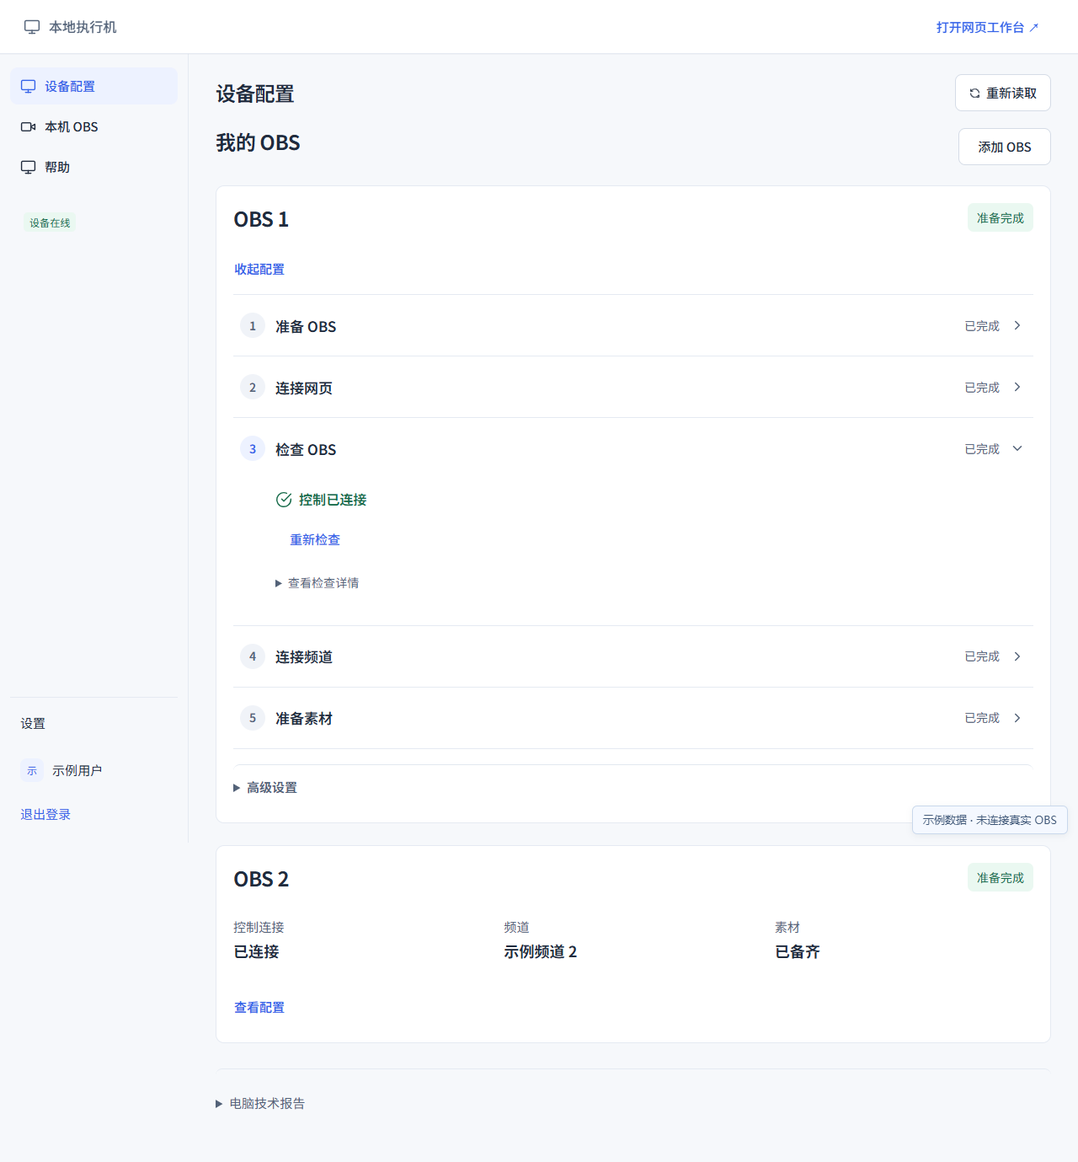
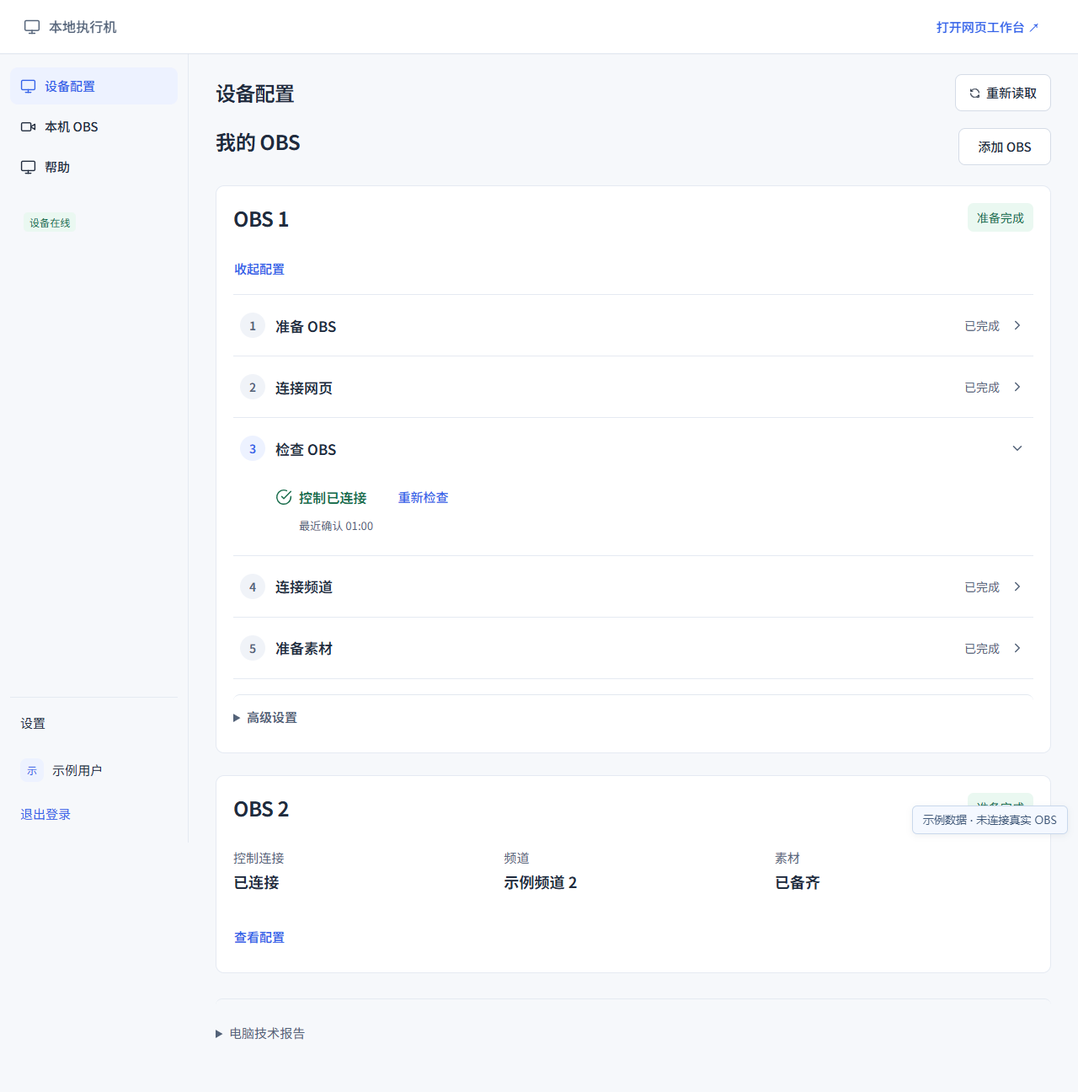
ui(desktop-obs)：将连接结果与复查操作收为紧凑摘要

diff --git a/desktop/app/obs-instance-controls.tsx b/desktop/app/obs-instance-controls.tsx
@@ -6,7 +6,7 @@ import { CheckCircleIcon, AlertCircleIcon } from "../../src/app/components/icons
 import { obsStartupView } from "./obs-startup-state";
 import styles from "./obs-startup.module.css";
 
-/** 按不可变实例 ID 发起操作；跨页面共享检查状态，操作完成不等同于控制连接成功。 */
+/** 按不可变实例 ID 发起操作；正常连接用紧凑摘要，启动历史与异常保留详情，检查完成不等同于连接成功。 */
 export default function ObsInstanceControls({ instance, check, snapshot, activity, diagnosis, disabled, act, help, now, readFresh, refresh }: {
   instance: PublicInstance; check?: Check; snapshot?: AgentSnapshot; activity?: DesktopActivity; diagnosis?: DesktopActivity; disabled: boolean;
   now: number; readFresh: boolean; refresh: () => void;
@@ -21,11 +21,21 @@ export default function ObsInstanceControls({ instance, check, snapshot, activit
   const diagnosisEndedAt = diagnosis?.endedAt || diagnosis?.problem?.observedAt;
   const recentDiagnosis = !!diagnosisEndedAt && Math.max(0, now - diagnosisEndedAt) < 4000;
   const diagnosisResult = recentDiagnosis ? diagnosis?.status === "complete" ? "检查完成" : diagnosis?.status === "failed" ? "检查未完成" : "" : "";
+  const recheckText = diagnosing ? "正在检查…" : diagnosisResult === "检查完成" ? "检查完成" : "重新检查";
+  const hasStartupDetails = current && current.status !== "cancelled";
+  const heading = <div role="status" aria-live="polite" className={styles.heading + (view.ready ? " " + styles.ready : "")}>
+    {view.ready ? <CheckCircleIcon aria-hidden="true" /> : view.unknown || view.showFailure ? <AlertCircleIcon aria-hidden="true" /> : view.running ? <span className={styles.spinner} aria-hidden="true" /> : null}
+    <span>{view.title}</span>
+  </div>;
+  const actions = <div className={styles.actions}>
+    {view.showLaunch && <button className="btn-primary" disabled={disabled} aria-label={"启动并检查 " + instance.name} onClick={() => void act("launch-obs", { id: instance.id })}>启动并检查</button>}
+    {!view.running && <button className="btn-ghost" disabled={disabled || diagnosing} aria-busy={diagnosing} aria-label={(diagnosing ? "正在检查，" : diagnosisResult === "检查完成" ? "检查完成，" : "") + "重新检查 " + instance.name} onClick={() => void act("diagnose-obs", { id: instance.id })}>{recheckText}</button>}
+    <span role="status" aria-live="polite" className="visually-hidden">{diagnosing ? "正在检查 " + instance.name + " 的控制连接" : diagnosisResult ? instance.name + " " + diagnosisResult : ""}</span>
+    {view.running && view.unknown && <button onClick={refresh}>重新读取状态</button>}
+    {!view.ready && <button className="btn-ghost" onClick={help}>连接帮助</button>}
+  </div>;
   return <div className={"obs-instance-controls " + styles.feedback} data-instance-id={instance.id} data-startup-state={view.running ? view.unknown ? "unknown" : view.slow ? "slow" : "running" : view.recovered ? "recovered" : view.ready ? "ready" : view.showFailure ? "failed" : "idle"}>
-    <div role="status" aria-live="polite" className={styles.heading + (view.ready ? " " + styles.ready : "")}>
-      {view.ready ? <CheckCircleIcon aria-hidden="true" /> : view.unknown || view.showFailure ? <AlertCircleIcon aria-hidden="true" /> : view.running ? <span className={styles.spinner} aria-hidden="true" /> : null}
-      <span>{view.title}</span>
-    </div>
+    <div className={styles.summary}>{heading}{actions}</div>
     {view.running && <ol className={styles.steps} aria-label="OBS 启动阶段">{["启动 OBS", "连接控制服务", "确认 OBS 状态"].map((label, index) => <li key={label} aria-current={index === phaseIndex ? "step" : undefined}>
       {index < phaseIndex ? <CheckCircleIcon aria-hidden="true" /> : <span className={styles.pending} aria-hidden="true" />}<span>{label}{index < phaseIndex ? " · 已确认" : ""}</span>
     </li>)}</ol>}
@@ -33,14 +43,8 @@ export default function ObsInstanceControls({ instance, check, snapshot, activit
     {view.running && (view.unknown || view.slow) && <p role="status" className={styles.notice}>{view.unknown ? view.overdue ? "本轮已达到检查时限，正在核对最终结果。请重新读取状态，避免重复启动。" : "暂时无法确认检查是否仍在进行。可重新读取状态，或查看连接帮助。" : "连接等待较久，检查仍在继续。可查看 OBS 的控制服务设置，无需重复启动。"}</p>}
     {view.recovered && <p className={styles.notice}>{current?.problem?.code === "OBS_READY" ? "上次连接检查超时；刚刚重新检测到控制已连接。" : "上次连接检查未完成；刚刚重新检测到控制已连接。"}</p>}
     {view.showFailure && current?.problem && <ProblemCard problem={current.problem} objectName={instance.name} />}
-    <div className={styles.actions}>
-      {view.showLaunch && <button className="btn-primary" disabled={disabled} aria-label={"启动并检查 " + instance.name} onClick={() => void act("launch-obs", { id: instance.id })}>启动并检查</button>}
-      {!view.running && <button className="btn-ghost" disabled={disabled || diagnosing} aria-busy={diagnosing} aria-label={"重新检查 " + instance.name} onClick={() => void act("diagnose-obs", { id: instance.id })}>{diagnosing ? "正在检查…" : "重新检查"}</button>}
-      <span role="status" aria-live="polite" className={styles.result + (!diagnosisResult ? " visually-hidden" : "")}>{diagnosing ? "正在检查 " + instance.name + " 的控制连接" : diagnosisResult}</span>
-      {view.running && view.unknown && <button onClick={refresh}>重新读取状态</button>}
-      {!view.ready && <button className="btn-ghost" onClick={help}>连接帮助</button>}
-    </div>
-    {(view.ready || (current && current.status !== "cancelled")) && <details key={view.ready ? "connected" : "checking"} className={styles.details}><summary>查看检查详情</summary>
+    {view.ready && !hasStartupDetails && <p className={styles.confirmedAt} aria-live="off">最近确认 <time dateTime={new Date(view.latest!.at).toISOString()}>{new Date(view.latest!.at).toLocaleTimeString("zh-CN", { hour: "2-digit", minute: "2-digit", hour12: false })}</time></p>}
+    {hasStartupDetails && <details key={view.ready ? "connected" : "checking"} className={styles.details}><summary>查看检查详情</summary>
       {view.ready ? <p className={styles.meta} aria-live="off">{current?.status === "complete" && !view.recovered ? `本次检查用时 ${elapsed} 秒 · ` : ""}最近确认于 {Math.max(0, Math.floor((now - view.latest!.at) / 1000))} 秒前</p> : current && <>
         <p>{progress?.observation || current.stage}</p>
         <p>本轮最多等待 60 秒；到期停止检查，不关闭 OBS，也不会自动开播。</p>

diff --git a/desktop/app/obs-setup-steps.tsx b/desktop/app/obs-setup-steps.tsx
@@ -6,7 +6,7 @@ import styles from "./obs-setup-steps.module.css";
 
 export type ObsSetupStep = { label: string; complete: boolean; pending: string; status?: { text: string; tone: "running" | "error" }; content: ReactNode };
 
-/** 只在实例首次挂载时选未完成项；后续轮询和完成状态变化都不打断正在编辑的步骤。 */
+/** 首次选未完成项，轮询不打断编辑；展开时省略通用完成标签，具体结果由内容说明。 */
 export default function ObsSetupSteps({ instanceId, steps }: { instanceId: string; steps: ObsSetupStep[] }) {
   const [selected, setSelected] = useState(() => {
     const next = steps.findIndex(step => !step.complete);
@@ -26,7 +26,7 @@ export default function ObsSetupSteps({ instanceId, steps }: { instanceId: strin
       const status = step.status?.text || (step.complete ? "已完成" : step.pending);
       return <li key={step.label} className={styles.step} data-step-state={step.status?.tone || (step.complete ? "complete" : "pending")}>
         <h4 className={styles.heading}><button type="button" id={triggerId} className={styles.trigger} aria-expanded={expanded} aria-controls={panelId} aria-disabled={expanded || undefined} onClick={() => selectStep(index)}>
-          <span className={styles.number} aria-hidden="true">{index + 1}</span><span className={styles.title}>{step.label}</span><span className={styles.status} data-step-header-status>{status}</span><ChevronDownIcon className={styles.chevron} aria-hidden="true" />
+          <span className={styles.number} aria-hidden="true">{index + 1}</span><span className={styles.title}>{step.label}</span><span className={styles.status} data-step-header-status hidden={expanded && step.complete && !step.status}>{status}</span><ChevronDownIcon className={styles.chevron} aria-hidden="true" />
         </button></h4>
         <div id={panelId} className={styles.panel} role="region" aria-labelledby={triggerId} data-obs-step-panel={index + 1} hidden={!expanded}>{step.content}</div>
       </li>;

diff --git a/desktop/app/obs-startup.module.css b/desktop/app/obs-startup.module.css
@@ -1,6 +1,10 @@
-/* 文件用途：OBS 检查的局部阶段反馈与状态下方操作区，继承桌面字体和颜色。 */
+/* 文件用途：OBS 检查的紧凑连接摘要及启动异常反馈，继承桌面字体和颜色。 */
 .feedback { display: flex; flex-direction: column; align-items: flex-start; gap: 12px; margin: 12px 0 4px; min-width: 0; overflow-wrap: anywhere; }
-.feedback[data-startup-state="ready"] { gap: 8px; }
+.feedback[data-startup-state="ready"] { gap: 2px; margin: 0; }
+.summary { display: flex; flex-direction: column; align-items: flex-start; gap: 8px; }
+.feedback[data-startup-state="ready"] .summary { flex-direction: row; flex-wrap: wrap; align-items: center; gap: 4px 20px; }
+.summary .actions { margin: 0; }
+.feedback > .confirmedAt { margin: 0; padding-left: 28px; color: var(--text-secondary); font-size: 13px; line-height: 1.6; font-variant-numeric: tabular-nums; }
 .heading { display: flex; align-items: center; gap: 8px; font-size: 16px; font-weight: 600; line-height: 1.6; }
 .heading svg { width: 20px; height: 20px; flex-shrink: 0; }
 .ready { color: var(--success-green); }
@@ -15,7 +19,6 @@
 .actions { display: flex; flex-wrap: wrap; align-items: center; justify-content: flex-start; gap: 8px 12px; margin-top: 4px; }
 .actions button, .details summary { min-height: 44px; }
 .actions button { white-space: normal; text-align: start; }
-.result { color: var(--text-secondary); font-size: 14px; }
 .details { width: 100%; max-width: 65ch; color: var(--text-secondary); font-size: 14px; }
 .details summary { display: list-item; cursor: pointer; padding-block: 10px; width: fit-content; }
 .details p { margin: 0 0 8px; line-height: 1.6; }

diff --git a/desktop/app/obs-setup-steps.module.css b/desktop/app/obs-setup-steps.module.css
@@ -13,7 +13,7 @@
 .status { color: var(--text-secondary); font-size: 14px; font-weight: 400; line-height: 1.5; }
 .step[data-step-state="running"] .status { color: var(--accent-primary); font-weight: 500; }
 .step[data-step-state="error"] .status { color: var(--error-rose); font-weight: 500; }
-.chevron { width: 18px; height: 18px; color: var(--text-secondary); transform: rotate(-90deg); }
+.chevron { grid-column: 4; width: 18px; height: 18px; color: var(--text-secondary); transform: rotate(-90deg); }
 .trigger[aria-expanded="true"] .chevron { transform: rotate(0); }
 .trigger[aria-expanded="true"] .number { color: var(--accent-primary); background: var(--accent-subtle); }
 .panel { min-width: 0; padding: 0 8px 24px 50px; scroll-margin-top: 100px; }

diff --git a/README.md b/README.md
@@ -3,11 +3,11 @@
 
 在网页选择素材、授权频道并控制直播；Windows 客户端配置本机 OBS、运行 Agent 和检查故障。支持多台电脑，每台可使用多个独立 OBS。
 
-**本地界面调整（待新版安装器发布）**：保留 Windows 标题栏的 LiveNest，页面头显示“本地执行机”，避免重复品牌。客户端支持 `Ctrl + +`／`Ctrl + =` 放大、`Ctrl + -` 缩小、`Ctrl + 0` 恢复 100%，范围为 50%–200%。OBS 检查成功后突出连接结果和“重新检查”，耗时及最近确认时间收进“检查详情”。使用说明见 [桌面配置与网页协作](docs/桌面配置与网页协作.md)。
+**本地界面调整（待新版安装器发布）**：保留 Windows 标题栏的 LiveNest，页面头显示“本地执行机”，避免重复品牌。客户端支持 `Ctrl + +`／`Ctrl + =` 放大、`Ctrl + -` 缩小、`Ctrl + 0` 恢复 100%，范围为 50%–200%。OBS 正常连接时，连接结果与“重新检查”同行；没有启动历史时，最近确认时刻直接用次要小字显示，有启动历史时可展开检查详情。使用说明见 [桌面配置与网页协作](docs/桌面配置与网页协作.md)。
 
-**OBS 配置精简（待新版安装器发布）**：每个 OBS 使用单列纵向步骤，一次只展开一步；点击标题可以随时返回其他步骤。完成状态集中在标题，移除顶部重复进度栏和右侧完成徽章；切换步骤或 OBS 保留已填写的配对码和未提交设置。详见 [OBS 纵向配置](docs/desktop/OBS纵向配置.md)。
+**OBS 配置精简（待新版安装器发布）**：每个 OBS 使用单列纵向步骤，一次只展开一步；点击标题可以随时返回其他步骤。折叠时在标题显示完成状态，展开后由内容显示具体结果；移除顶部重复进度栏和右侧完成徽章。切换步骤或 OBS 保留已填写的配对码和未提交设置。详见 [OBS 纵向配置](docs/desktop/OBS纵向配置.md)。
 
-**OBS 启动反馈（待新版安装器发布）**：启动时显示真实阶段、已等待时间和最近检查；等待较久、状态暂未更新、超时与后续恢复分别说明。操作放在状态下方，已连接时只保留“重新检查”。点击后按钮显示“正在检查…”并禁用，结束后短暂显示“检查完成”；失败保留原因并可重试，连接结论仍由实际观测决定。本轮 60 秒预算覆盖进程启动与控制确认，超时不会关闭 OBS 或自动重启。实现与验收范围见 [OBS 启动反馈](docs/desktop/OBS启动反馈.md)。
+**OBS 启动反馈（待新版安装器发布）**：启动时显示真实阶段、已等待时间和最近检查；等待较久、状态暂未更新、超时与后续恢复分别说明。已连接时只保留就近的“重新检查”，点击后按钮显示“正在检查…”并禁用，结束后在原按钮内短暂显示“检查完成”；失败保留原因并可重试，连接结论仍由实际观测决定。本轮 60 秒预算覆盖进程启动与控制确认，超时不会关闭 OBS 或自动重启。实现与验收范围见 [OBS 启动反馈](docs/desktop/OBS启动反馈.md)。
 
 工作台按「1 素材选择 / 2 直播编排 / 3 开播」引导。第二步依次选择配置包、填写标题说明和封面，并可展开完整配置；所有编辑与最终开播共用同一份本场配置。第一步不加载预览，第三步先显示本场运行状态与开播／恢复操作，再展示最终预览。执行中不显示重试；未确认结果先重新检查，明确失败后才提供重试。卡片顶部只提供查看运行状态入口。设置可管理默认参数，并在「发布配置」中统一管理直播配置包与视频发布配置包；默认值只初始化新草稿，套用配置包只更新规则，不覆盖素材和文案。支持 AI 生成英文文案；账号 AI Key 统一供文案与互动使用，用途可分别启用；本场互动参数纳入完整配置及直播配置包。客户工作台不再展示连接诊断字段；异常就地说明原因并提供恢复操作，后台状态与脱敏报告保留。详见 [开播详情配置](docs/开播详情配置.md)。本次变更随 0.1.15 发布，部署状态与证据见 [0.1.15 发布记录](docs/desktop/0.1.15发布.md)。
 

diff --git a/docs/desktop/OBS纵向配置.md b/docs/desktop/OBS纵向配置.md
@@ -7,10 +7,11 @@
 
 - 保留准备 OBS、连接网页、检查 OBS、连接频道、准备素材五项，每个 OBS 分别反映当前状态。
 - 首次展开进入首个未完成项；全部完成时默认进入检查 OBS。用户可随时回访其他步骤，不增加顺序锁定。
-- 完成状态只在步骤标题显示。移除顶部横向五步栏、展开内容中的重复标题及右侧完成徽章。
+- 折叠步骤在标题显示完成状态；展开且已完成时省略通用“已完成”，由内容显示具体结果，进行中和错误状态仍在标题提示。移除顶部横向五步栏、展开内容中的重复标题及右侧完成徽章。
 - 同一时刻仅展开一个 OBS 的一个步骤。切换步骤、OBS 或本地导航只隐藏配置面板，保留配对码、表单输入和组件本地状态。各字段沿用原有保存规则，例如实例名称仍在失去焦点时保存；切换不会执行配对或开播。
 - 读取新状态不会强制切换当前步骤。等待、失败和需要处理的问题仍须可辨认，连接结果与操作保持在目标 OBS 内。
-- 点击“重新检查”后立即显示“正在检查…”并禁用重复提交；结束后在按钮旁显示 4 秒“检查完成”或“检查未完成”。切到本机 OBS 时共享原实例的检查状态，连接结论仍来自实际观测；检查完成不等于控制已连接，失败原因持续保留以便重试。
+- 正常连接与“重新检查”在同一行。点击后按钮立即显示“正在检查…”并禁用重复提交；结束后原按钮显示 4 秒“检查完成”，随后恢复“重新检查”。失败时直接保留问题原因和重试入口，不再增加独立的完成提示。切到本机 OBS 时共享原实例检查状态；检查完成不等于控制已连接。
+- 没有启动历史时，连接摘要下用小字显示最近确认的 `HH:mm` 时刻，不为单个时间单独设置“查看详情”，也不每秒更新“几秒前”。有启动历史时继续保留耗时、阶段与恢复相关详情。
 - 频道和素材操作继续打开对应 OBS 的网页配置；电脑配对仍属于整台电脑，新增 OBS 无需重复配对。
 - 高级设置继续提供原有命名、路径、端口和连接修复能力。关闭客户端或刷新页面后的草稿持久化不属于本次承诺。
 
@@ -33,6 +34,8 @@
 - `node scripts/desktop/obs-startup-feedback-acceptance.mjs`：390 / 780 / 1280px 阶段、慢等待、陈旧观测、读取失败、超时恢复及成功详情回归通过。
 
 同日补充“重新检查”验收：三个宽度均验证请求中按钮禁用与即时反馈、重复点击仅提交一次、切换 OBS 不改变检查目标、跨本机 OBS 页面共享进度、完成、失败重试，以及检查完成但控制仍未连接时不会误报成功。进度只在原按钮与步骤标题呈现，不再额外显示通用计时卡；辅助技术通过就地状态消息感知变化。
+
+后续紧凑布局验收已通过，继续覆盖这些行为，并检查正常连接与操作同行、摘要不超过 80 CSS px、确认时间可直接读取、完成文案只有一份、展开完成标题去重与箭头列对齐。按钮名称包含可见的检查状态并保留原实例；连接变为未连接时保留同一按钮和状态播报节点，不通过替换节点改变布局。完整 `verify`、最终桌面构建及三个浏览器验收脚本均通过，截图同步为当前布局。
 
 补充修改后 `npm run verify` 与桌面静态构建通过。首次默认临时目录的验证被 C 盘不足 512 MiB 的空间门槛阻止，并行重跑遇到系统内存不足；改为该进程的 `TEMP` / `TMP` 指向 D 盘并顺序构建后完整通过。未清理用户文件或更改系统设置。
 

diff --git a/docs/desktop/OBS启动反馈.md b/docs/desktop/OBS启动反馈.md
@@ -15,13 +15,13 @@
 | 20 秒没有实际检查结果、读取失败或宿主尚未返回到期结果 | 检查结果暂未更新，不声称任务仍正常进行 | 重新读取状态、连接帮助 |
 | 本轮达到 60 秒 | 本轮连接检查已超时，OBS 可能仍在运行 | 重新检查、连接帮助 |
 | 新观测确认超时后已连接 | 控制连接已恢复，并说明上次检查超时 | 重新检查 |
-| 正常完成 | 控制已连接；耗时与最近确认时间放在折叠详情 | 重新检查 |
+| 正常完成 | 控制已连接与操作同行；无启动历史时小字显示确认时刻，有历史时提供折叠详情 | 重新检查 |
 
-动作统一在状态说明下方左侧排列；成功态没有蓝色启动按钮或远离说明的重复完成徽章。步骤导航的完成状态保留。时间显示为“已等待”，不伪造剩余时间或百分比。阶段使用状态语义，秒数不每秒播报；支持减少动态效果和小窗口换行。
+正常连接时状态与复查按钮同行；其他状态的动作紧邻状态下方，成功态没有蓝色启动按钮或远离说明的重复完成徽章。步骤折叠时保留完成状态，展开后由具体结果说明。等待时间显示为“已等待”，不伪造剩余时间或百分比。阶段使用状态语义，秒数不每秒播报；支持减少动态效果和小窗口换行。
 
-正常连接时默认只呈现连接结果、重新检查和次要的“查看检查详情”入口。成功后详情默认收起，即使等待时曾展开；展开后只显示本次检查用时（如有）及最近确认时间，不重复连接结论、旧阶段观测或已结束的 60 秒等待说明。仅有当前成功观测而无启动记录时，也能查看最近确认时间。原生详情控件保留键盘展开与可见焦点。
+正常连接时只用一行呈现连接结果与重新检查。仅有成功观测、没有启动记录时，下一行用次要小字显示最近确认的 `HH:mm` 时刻，不再为单个时间设置详情开关。有启动历史时保留“查看检查详情”，成功后默认收起，即使等待时曾展开；展开后显示本次检查用时（如有）及最近确认时间，不重复连接结论、旧阶段观测或已结束的 60 秒等待说明。原生详情控件保留键盘展开与可见焦点。
 
-“重新检查”有独立的操作反馈：请求中按钮显示“正在检查…”并禁用，结束后在同一行显示 4 秒“检查完成”或“检查未完成”。设备配置与本机 OBS 共享指定实例的检查状态。即使控制连接与点击前一致，也能辨认操作已结束；检查完成仅表示请求执行结束，连接结论仍依据最新观测。失败原因持续显示，保留重试入口。正式客户端不延长请求耗时。
+“重新检查”在原按钮内反馈：请求中显示“正在检查…”并禁用，结束后显示 4 秒“检查完成”，随后恢复操作名称；失败时保留原因与重试入口，不额外显示独立的完成标签。设备配置与本机 OBS 共享指定实例的检查状态。即使控制连接与点击前一致，也能辨认操作已结束；检查完成仅表示请求执行结束，连接结论仍依据最新观测。按钮的无障碍名称包含可见状态，状态播报带实例名称。正式客户端不延长请求耗时。
 
 进行中的真实阶段与已等待时间，以及慢等待、结果陈旧、超时故障、恢复说明继续直接呈现，不放入折叠详情。进行中和未恢复的失败详情保留阶段观测、60 秒预算与“不关闭 OBS、不自动开播”的操作边界。
 

diff --git a/docs/桌面配置与网页协作.md b/docs/桌面配置与网页协作.md
@@ -11,7 +11,7 @@ Windows 标题栏保留 LiveNest，登录后的页面头显示“本地执行机
 - `Ctrl + 0`：恢复 100%；缩放范围为 50%–200%，文字、按钮和布局一起调整。
 - 登录页和配置页均可使用，输入框获得焦点时也生效。快捷键只在当前客户端窗口内处理，不改变 OBS 画布或直播输出分辨率。
 
-OBS 检查成功后主要显示连接结果和“重新检查”；耗时及最近确认时间放在默认折叠的检查详情。等待、超时或状态未确认时仍就地提示原因与恢复操作。以上调整尚未发布安装器或替换已安装客户端。
+OBS 正常连接时，连接结果与“重新检查”同行；没有启动历史时，小字直接显示最近确认时刻，有历史时保留默认折叠的检查详情。复查期间按钮显示“正在检查…”，完成后在原按钮内短暂显示“检查完成”。等待、失败、超时或状态未确认时仍就地提示原因与恢复操作。以上调整尚未发布安装器或替换已安装客户端。
 
 缩放由当前 Electron 窗口处理，不注册系统全局快捷键。25 项键盘回归覆盖主键盘、数字键盘、上下限、重置、浮点倍率及不应拦截的组合键；完整 `npm run verify`、桌面构建与编译通过。合成页面已检查本地执行机标题与成功态精简；这不等同于已安装客户端的真实键盘或 OBS 集成验收。
 
